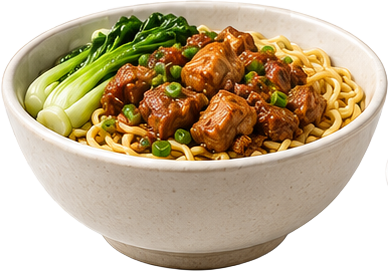
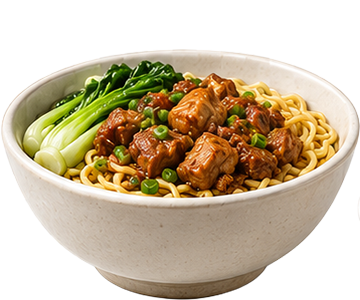
Kasih Makan: latar bersih komi-makanBG + varian makanan + bar gaya home
- Background: komi-makanBG.png (dapur bersih, tanpa bar/mangkok baked-in)
  -> hapus panel penutup, carousel langsung di atas meja
- Varian makanan: Nasi Goreng, Sate Ayam, Mie Ayam, Siomay, Tahu Bulat
- Bar Kenyang (ikon Utensils, oranye) & Mood (ikon Smile, pink) disamakan
  dengan halaman home
- Drag-to-feed tetap (Kenyang & Mood naik sesuai makanan)

diff --git a/app/kolom-komi/makan/page.tsx b/app/kolom-komi/makan/page.tsx
@@ -1,9 +1,9 @@
 "use client";
 
-import { useRef, useState } from "react";
+import { useRef, useState, type ReactNode } from "react";
 import Image from "next/image";
 import Link from "next/link";
-import { ArrowLeft, Heart } from "lucide-react";
+import { ArrowLeft, Utensils, Smile } from "lucide-react";
 import { AnimatePresence, motion } from "framer-motion";
 import { useKolomKomi } from "@/lib/kolom-komi/state";
 import { FOODS, type Food } from "@/lib/kolom-komi/foods";
@@ -11,29 +11,40 @@ import { KOMI_IMG } from "@/lib/kolom-komi/assets";
 import { Loader } from "@/components/KolomKomi/Loader";
 import { playSfx } from "@/lib/kolom-komi/sound";
 
-// Posisi elemen overlay (% dari tinggi layar) — dipas-kan ke komposit komi-makan.png.
-const BAR1_TOP = 14.0;
-const BAR2_TOP = 22.6;
+// Posisi overlay (% tinggi layar) — dipas-kan ke komi-makanBG.png.
+const BAR1_TOP = 10.0;
+const BAR2_TOP = 15.4;
 
-// Satu bar kebutuhan bergaya desain: hati + track + isi pink + ujung hijau + angka.
-function NeedBar({ value, top }: { value: number; top: number }) {
+// Bar kebutuhan: ikon + warna disamakan dengan halaman home (Kenyang oranye, Mood pink).
+function NeedBar({
+  icon,
+  value,
+  top,
+  fill,
+  badge,
+}: {
+  icon: ReactNode;
+  value: number;
+  top: number;
+  fill: string;
+  badge: string;
+}) {
   const pct = Math.round(Math.max(0, Math.min(100, value)));
   return (
-    <div className="absolute left-2 right-3 z-20 flex items-center gap-1.5" style={{ top: `${top}%` }}>
-      <span className="flex h-7 w-7 shrink-0 items-center justify-center rounded-lg border-2 border-white bg-gradient-to-b from-[#ff5b8a] to-[#e0144c] shadow">
-        <Heart className="h-4 w-4 fill-white text-white" />
+    <div className="absolute left-1.5 right-2 z-20 flex items-center gap-1.5" style={{ top: `${top}%` }}>
+      <span
+        className="flex h-7 w-7 shrink-0 items-center justify-center rounded-lg border-2 border-white text-white shadow"
+        style={{ background: badge }}
+      >
+        {icon}
       </span>
-      <div className="relative h-[22px] flex-1 overflow-hidden rounded-full border-2 border-white bg-[#5e2238] shadow">
+      <div className="relative h-[22px] flex-1 overflow-hidden rounded-full border-2 border-white shadow" style={{ background: "rgba(28,16,22,0.5)" }}>
         <div
-          className="absolute inset-y-0 left-0 rounded-full bg-gradient-to-b from-[#ff6fae] to-[#ec3f86] transition-[width] duration-500"
-          style={{ width: `${pct}%` }}
+          className="absolute inset-y-0 left-0 rounded-full transition-[width] duration-500"
+          style={{ width: `${pct}%`, background: fill }}
         />
-        <div
-          className="absolute inset-y-[1px] w-3 rounded-full bg-gradient-to-b from-[#8fe06a] to-[#4ea62e]"
-          style={{ left: `calc(${pct}% - 12px)` }}
-        />
-        <span className="absolute inset-0 flex items-center justify-end pr-2.5 font-display text-[11px] font-extrabold text-white [text-shadow:0_1px_1px_rgba(0,0,0,0.5)]">
-          {pct}/100
+        <span className="absolute inset-0 flex items-center justify-end pr-2.5 font-display text-[11px] font-extrabold text-white [text-shadow:0_1px_1px_rgba(0,0,0,0.55)]">
+          {pct}%
         </span>
       </div>
     </div>
@@ -61,7 +72,7 @@ export default function MakanPage() {
     setTimeout(() => setPesan(null), 1800);
     if (r.sukses) {
       playSfx("pop");
-      setNyam({ teks: `+${food.efek.kenyang} 🍜` });
+      setNyam({ teks: `+${food.efek.kenyang} 🍴` });
       setTimeout(() => setNyam(null), 900);
     }
   };
@@ -102,7 +113,6 @@ export default function MakanPage() {
     <div className="absolute inset-0 overflow-hidden">
       <Image src={KOMI_IMG.makanBg} alt="" fill priority sizes="460px" className="object-cover object-top" />
 
-      {/* Tombol kembali */}
       <Link
         href="/kolom-komi"
         aria-label="Kembali"
@@ -111,26 +121,38 @@ export default function MakanPage() {
         <ArrowLeft className="h-5 w-5" />
       </Link>
 
-      {/* 2 bar: Kenyang & Mood */}
-      <NeedBar value={state.kenyang} top={BAR1_TOP} />
-      <NeedBar value={state.mood} top={BAR2_TOP} />
+      {/* Bar Kenyang (oranye) & Mood (pink) — sama seperti home */}
+      <NeedBar
+        icon={<Utensils className="h-4 w-4" />}
+        value={state.kenyang}
+        top={BAR1_TOP}
+        fill="linear-gradient(to bottom, #ffd27a, #f08020)"
+        badge="linear-gradient(to bottom, #ffbe57, #f08020)"
+      />
+      <NeedBar
+        icon={<Smile className="h-4 w-4" />}
+        value={state.mood}
+        top={BAR2_TOP}
+        fill="linear-gradient(to bottom, #ff9ecb, #ff3d92)"
+        badge="linear-gradient(to bottom, #ff9ecb, #ff3d92)"
+      />
 
-      {/* Zona mulut (target jatuhkan makanan) */}
+      {/* Zona mulut (target) */}
       <div
         ref={mouthRef}
-        className={`absolute left-[33%] top-[37%] z-10 h-[15%] w-[34%] rounded-full transition ${
+        className={`absolute left-[33%] top-[30%] z-10 h-[13%] w-[34%] rounded-full transition ${
           drag ? "bg-white/20 ring-4 ring-white/60" : ""
         }`}
       />
 
-      {/* Efek "nyam" di mulut */}
+      {/* Efek "nyam" */}
       <AnimatePresence>
         {nyam ? (
           <motion.div
             initial={{ opacity: 0, y: 0, scale: 0.8 }}
             animate={{ opacity: 1, y: -40, scale: 1 }}
             exit={{ opacity: 0 }}
-            className="absolute left-1/2 top-[40%] z-30 -translate-x-1/2 rounded-full bg-white/95 px-3 py-1 font-display text-sm font-extrabold text-orange shadow-md"
+            className="absolute left-1/2 top-[30%] z-30 -translate-x-1/2 rounded-full bg-white/95 px-3 py-1 font-display text-sm font-extrabold text-orange shadow-md"
           >
             {nyam.teks}
           </motion.div>
@@ -144,17 +166,17 @@ export default function MakanPage() {
             initial={{ opacity: 0, y: -8 }}
             animate={{ opacity: 1, y: 0 }}
             exit={{ opacity: 0 }}
-            className="absolute left-1/2 top-[27%] z-30 w-[80%] max-w-xs -translate-x-1/2 rounded-2xl border-2 border-navy/10 bg-white/95 px-4 py-2 text-center font-body text-sm font-medium text-navy shadow-md"
+            className="absolute left-1/2 top-[21%] z-30 w-[80%] max-w-xs -translate-x-1/2 rounded-2xl border-2 border-navy/10 bg-white/95 px-4 py-2 text-center font-body text-sm font-medium text-navy shadow-md"
           >
             {pesan}
           </motion.div>
         ) : null}
       </AnimatePresence>
 
-      {/* Carousel mangkok (bawah) */}
-      <div className="absolute inset-x-0 bottom-0 z-20 h-[30%]">
-        <div className="pointer-events-none absolute inset-0 rounded-t-[2rem] border-t-2 border-[#caa06a] shadow-[0_-6px_18px_rgba(0,0,0,0.3)]" style={{ background: "linear-gradient(to bottom, #b3793f, #7a4d28)" }} />
-        <p className="absolute left-0 right-0 top-1.5 z-10 text-center font-body text-[11px] font-bold text-white/90 [text-shadow:0_1px_2px_rgba(0,0,0,0.6)]">
+      {/* Carousel makanan — langsung di atas meja */}
+      <div className="absolute inset-x-0 bottom-0 z-20 h-[37%]">
+        <div className="pointer-events-none absolute inset-x-0 bottom-0 h-2/3 bg-gradient-to-t from-black/25 to-transparent" />
+        <p className="absolute left-0 right-0 top-1.5 z-10 text-center font-body text-[12px] font-bold text-white [text-shadow:0_1px_3px_rgba(0,0,0,0.8)]">
           Geser & tarik makanan ke mulut Komi 👆
         </p>
         <div className="absolute inset-x-0 bottom-2 top-9 flex touch-pan-x items-center gap-3 overflow-x-auto px-4 [scrollbar-width:none] [&::-webkit-scrollbar]:hidden">
@@ -164,22 +186,22 @@ export default function MakanPage() {
               onPointerDown={(e) => onDown(e, f)}
               onPointerMove={onMove}
               onPointerUp={onUp}
-              className="relative flex w-[126px] shrink-0 cursor-grab touch-pan-x flex-col items-center active:cursor-grabbing"
+              className="relative flex w-[140px] shrink-0 cursor-grab touch-pan-x flex-col items-center active:cursor-grabbing"
             >
               {f.badge ? (
-                <span className="absolute -top-1 right-1 z-10 rounded-full border border-white bg-gradient-to-b from-[#ffbe57] to-[#f08020] px-1.5 py-0.5 font-display text-[8px] font-extrabold uppercase text-white shadow">
+                <span className="absolute -top-1 right-2 z-10 rounded-full border border-white bg-gradient-to-b from-[#ffbe57] to-[#f08020] px-1.5 py-0.5 font-display text-[8px] font-extrabold uppercase text-white shadow">
                   {f.badge}
                 </span>
               ) : null}
               <Image
                 src={f.img!}
                 alt={f.nama}
-                width={126}
-                height={88}
+                width={140}
+                height={117}
                 draggable={false}
-                className="pointer-events-none drop-shadow-lg"
+                className="pointer-events-none drop-shadow-xl"
               />
-              <span className="mt-0.5 font-display text-[11px] font-extrabold text-white [text-shadow:0_1px_2px_rgba(0,0,0,0.7)]">
+              <span className="mt-0.5 font-display text-[12px] font-extrabold text-white [text-shadow:0_1px_3px_rgba(0,0,0,0.85)]">
                 {f.nama}
               </span>
             </div>
@@ -187,13 +209,13 @@ export default function MakanPage() {
         </div>
       </div>
 
-      {/* Mangkok melayang saat diseret */}
+      {/* Makanan melayang saat diseret */}
       {drag ? (
         <Image
           src={drag.food.img!}
           alt=""
-          width={150}
-          height={105}
+          width={170}
+          height={142}
           draggable={false}
           style={{ position: "fixed", left: drag.x, top: drag.y, transform: "translate(-50%,-50%)", zIndex: 60, pointerEvents: "none" }}
           className="drop-shadow-2xl"

diff --git a/lib/kolom-komi/foods.ts b/lib/kolom-komi/foods.ts
@@ -1,25 +1,23 @@
-// Pilihan makanan untuk aksi "Kasih Makan" — mangkok mie di carousel.
+// Pilihan makanan untuk aksi "Kasih Makan" — varian di carousel.
 // Tiap makanan beda efek ke Kenyang & Mood.
 
 export interface Food {
   id: string;
   nama: string;
   emoji: string;
-  /** Gambar mangkok (di public/). */
+  /** Gambar piring/mangkok (di public/). */
   img?: string;
   /** Efek ke bar saat diberikan */
   efek: { kenyang: number; mood: number };
   badge?: string;
 }
 
-const MIE = "/komi/food_mie.png";
-
 export const FOODS: Food[] = [
-  { id: "mie-ayam", nama: "Mie Ayam", emoji: "🍜", img: MIE, efek: { kenyang: 18, mood: 6 } },
-  { id: "mie-bakso", nama: "Mie Bakso", emoji: "🍜", img: MIE, efek: { kenyang: 20, mood: 8 } },
-  { id: "mie-spesial", nama: "Mie Spesial", emoji: "🍜", img: MIE, efek: { kenyang: 24, mood: 12 }, badge: "Spesial" },
-  { id: "mie-komplit", nama: "Mie Komplit", emoji: "🍜", img: MIE, efek: { kenyang: 22, mood: 10 } },
-  { id: "mie-jumbo", nama: "Mie Jumbo", emoji: "🍜", img: MIE, efek: { kenyang: 28, mood: 7 }, badge: "Jumbo" },
+  { id: "nasi-goreng", nama: "Nasi Goreng", emoji: "🍳", img: "/komi/food_nasigoreng.png", efek: { kenyang: 26, mood: 8 }, badge: "Favorit" },
+  { id: "sate-ayam", nama: "Sate Ayam", emoji: "🍢", img: "/komi/food_sateayam.png", efek: { kenyang: 20, mood: 12 } },
+  { id: "mie-ayam", nama: "Mie Ayam", emoji: "🍜", img: "/komi/food_mie.png", efek: { kenyang: 22, mood: 9 } },
+  { id: "siomay", nama: "Siomay", emoji: "🥟", img: "/komi/food_siomay.png", efek: { kenyang: 16, mood: 11 } },
+  { id: "tahu-bulat", nama: "Tahu Bulat", emoji: "🟤", img: "/komi/food_tahubulat.png", efek: { kenyang: 12, mood: 14 } },
 ];
 
 export function cariFood(id: string): Food | undefined {

diff --git a/lib/kolom-komi/assets.ts b/lib/kolom-komi/assets.ts
@@ -17,6 +17,6 @@ export const KOMI_IMG = {
   kompasPutih: "/komi/kompas-putih.png",
   /** Latar halaman home (ruang dalam rumah) */
   homeBg: "/komi/home-bg.png",
-  /** Latar halaman Kasih Makan (dapur + Komi pakai celemek) */
-  makanBg: "/komi/komi-makan.png",
+  /** Latar halaman Kasih Makan (dapur + Komi pakai celemek, tanpa bar/mangkok) */
+  makanBg: "/komi/komi-makanBG.png",
 };